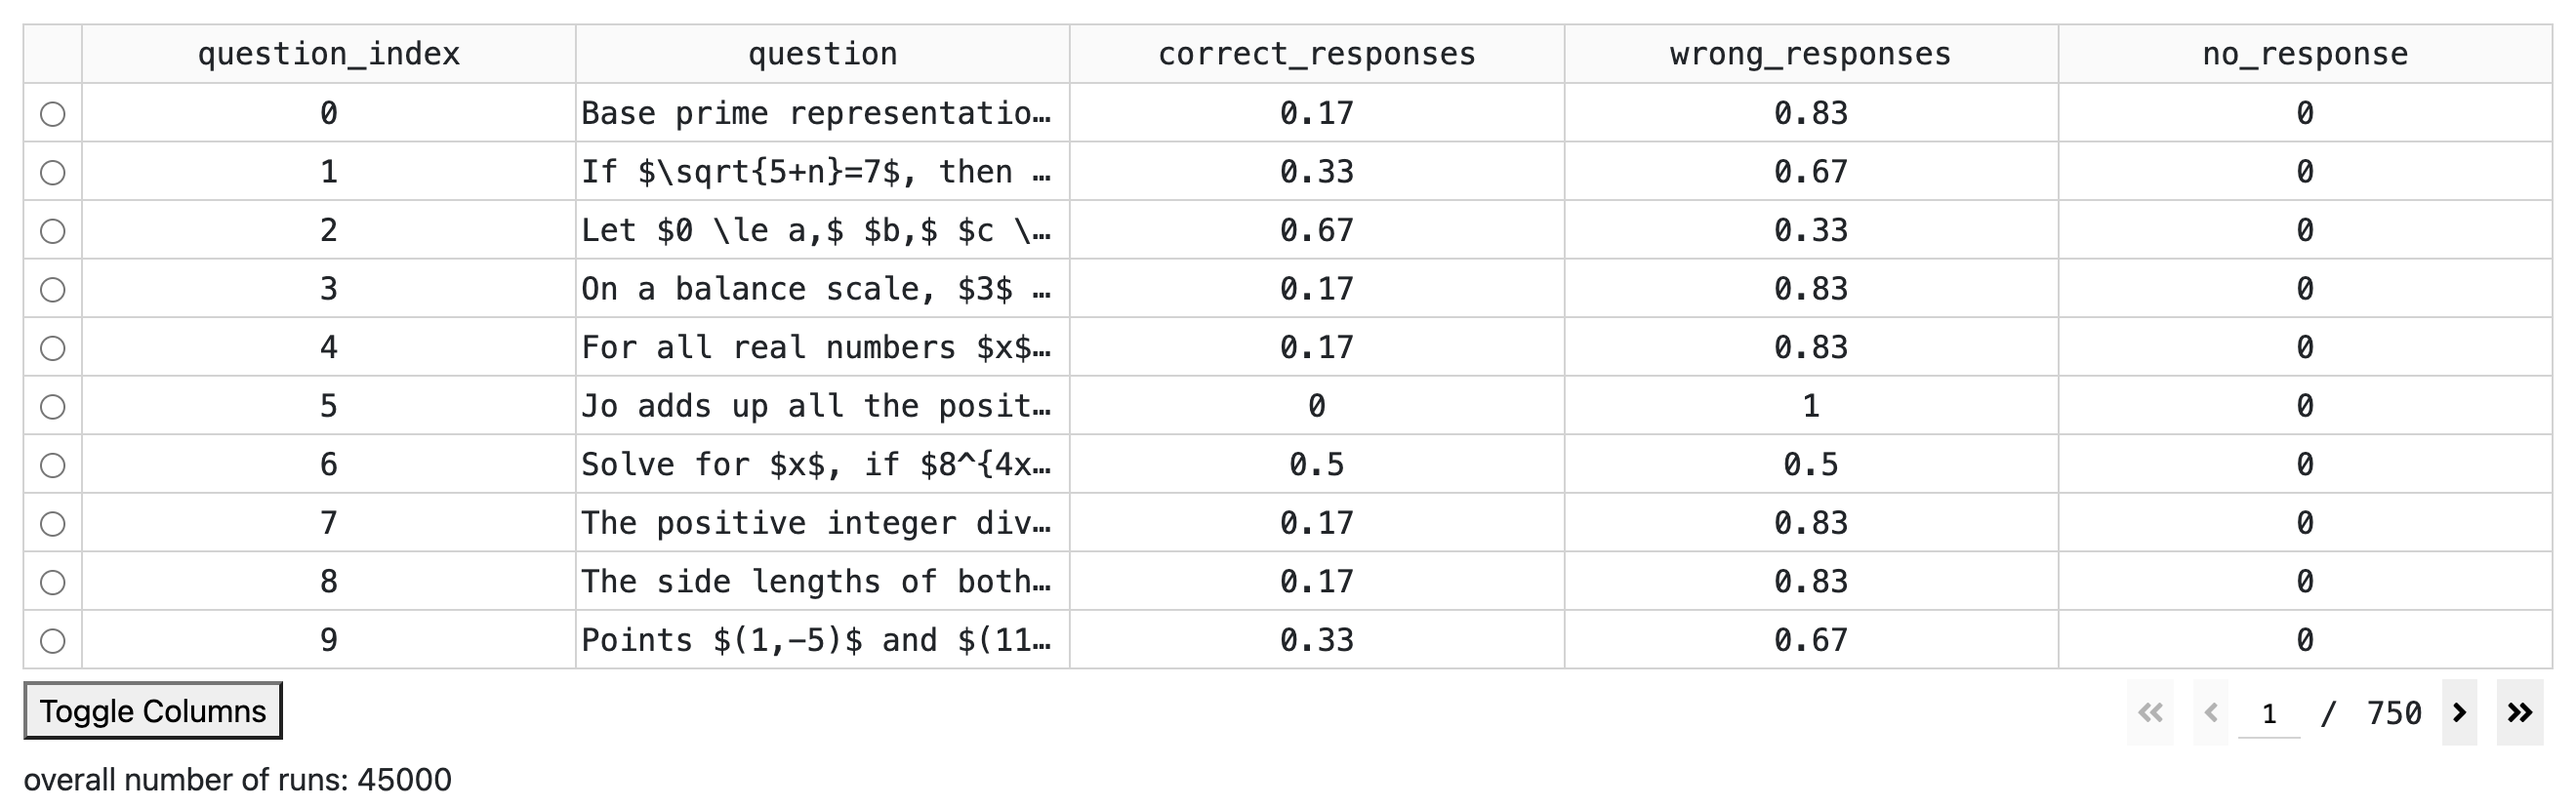
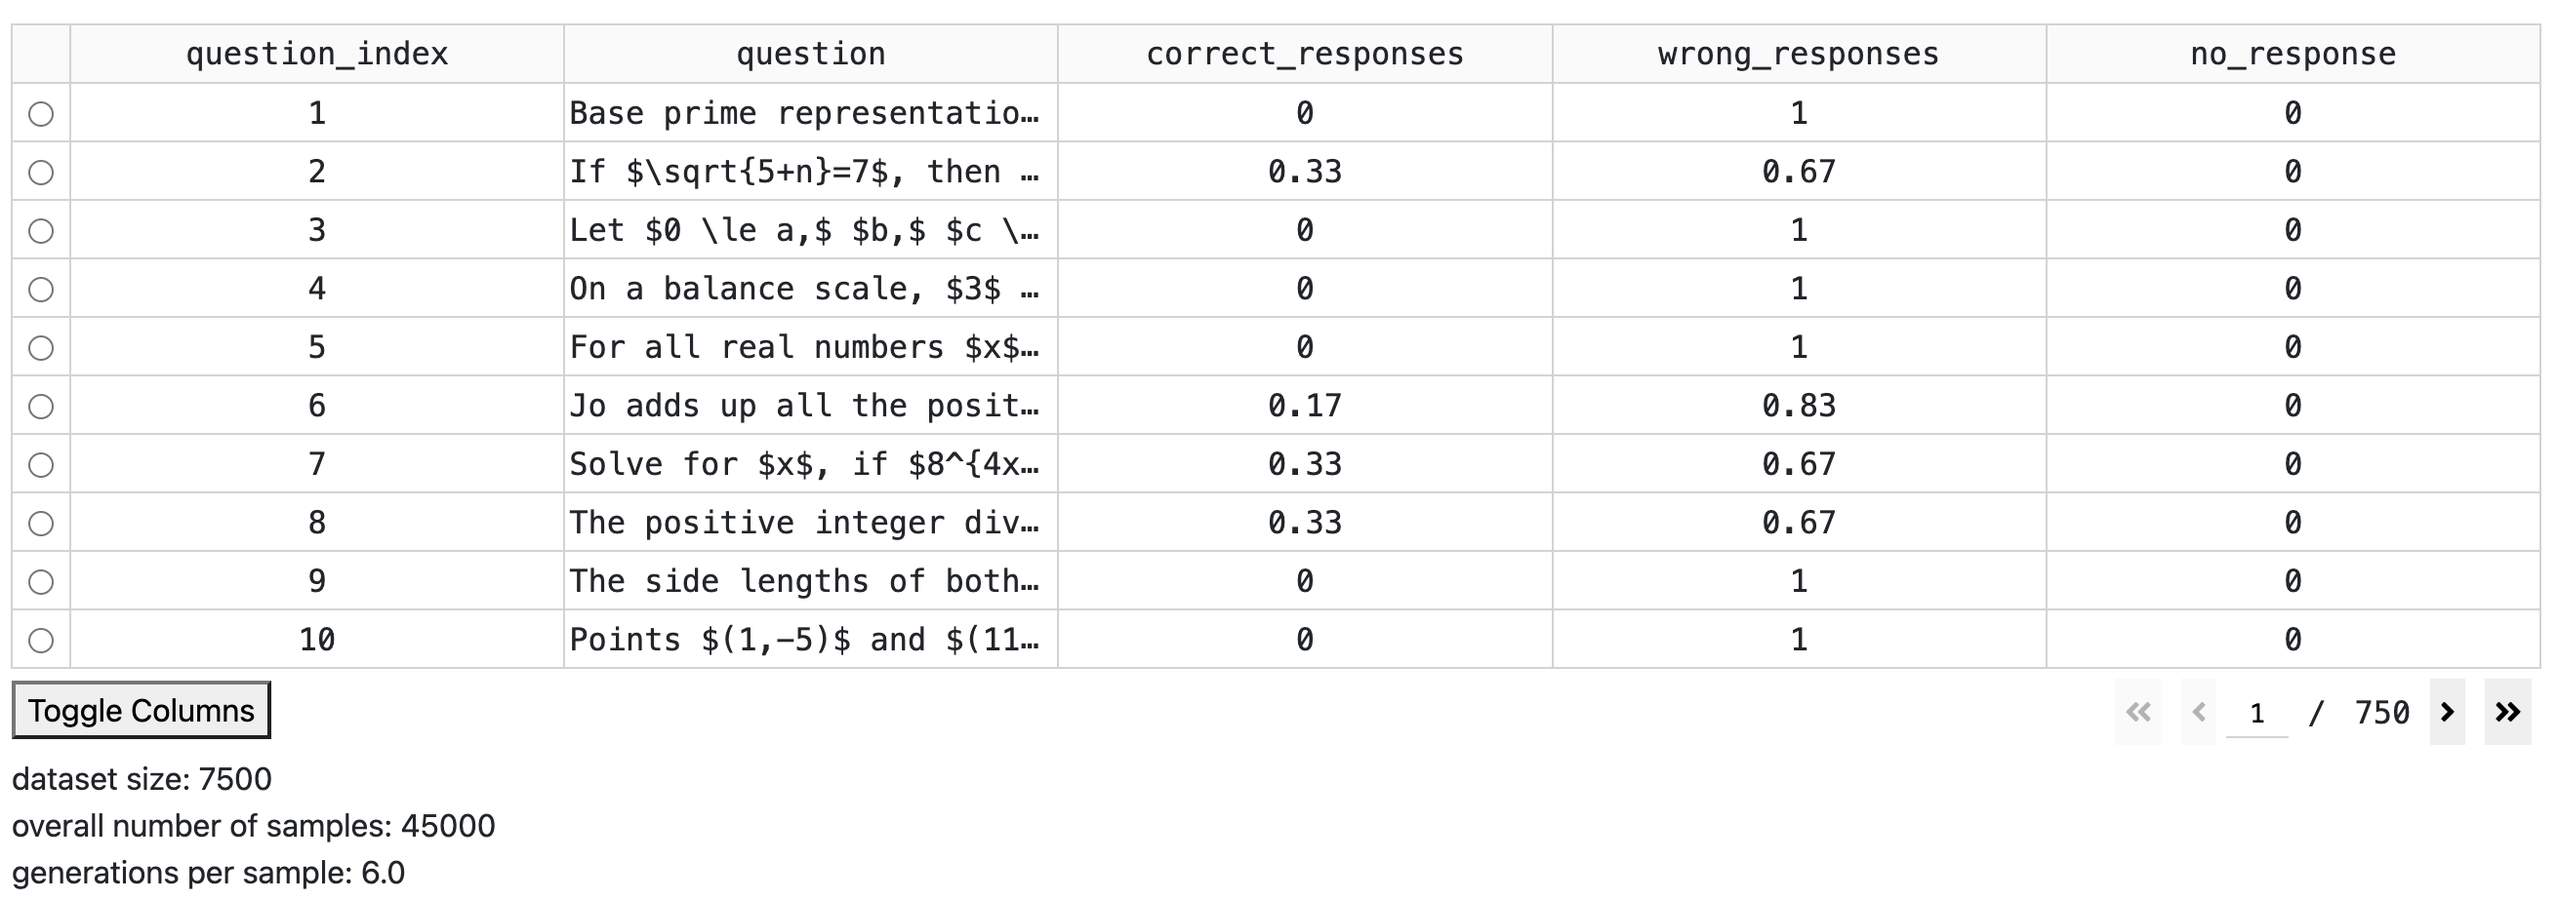
update readme

diff --git a/visualization/layouts/analyze_page_layouts.py b/visualization/layouts/analyze_page_layouts.py
@@ -17,7 +17,11 @@ from typing import Dict, List
 import dash_bootstrap_components as dbc
 from dash import dcc, html
 from layouts.base_layouts import get_selector_layout, get_switch_layout
-from layouts.table_layouts import get_change_label_layout, get_filter_layout, get_sorting_layout
+from layouts.table_layouts import (
+    get_change_label_layout,
+    get_filter_layout,
+    get_sorting_layout,
+)
 from settings.constants import CHOOSE_MODEL, DELETE, GENERAL_STATS
 from utils.common import get_available_models, get_custom_stats, get_general_custom_stats
 
@@ -59,9 +63,12 @@ def get_utils_layout(utils: Dict) -> dbc.AccordionItem:
             [
                 html.Pre(f"{name}: ", className="mr-2"),
                 html.Pre(
-                    (value if value == "" or str(value).strip() != "" else repr(value)[1:-1]),
+                    (
+                        value
+                        if value == "" or str(value).strip() != ""
+                        else repr(value)[1:-1]
+                    ),
                     className="mr-2",
-                    style={"overflow-x": "scroll"},
                 ),
             ],
             className="mb-3",
@@ -153,7 +160,9 @@ def get_compare_test_layout() -> html.Div:
             html.Pre(id="filtering_container"),
             html.Pre(id="sorting_container"),
             dcc.Loading(
-                children=dbc.Container(id="loading_container", style={'display': 'none'}, children=""),
+                children=dbc.Container(
+                    id="loading_container", style={'display': 'none'}, children=""
+                ),
                 type='circle',
                 style={'margin-top': '50px'},
             ),
@@ -207,7 +216,11 @@ def get_stats_text(general_stats: bool = False, delete: bool = False):
 
 
 def get_stats_input(modes: List[str] = []) -> List:
-    options = list(get_general_custom_stats().keys() if GENERAL_STATS in modes else get_custom_stats().keys())
+    options = list(
+        get_general_custom_stats().keys()
+        if GENERAL_STATS in modes
+        else get_custom_stats().keys()
+    )
     stats_input = (
         dbc.Textarea(id="stats_input")
         if not DELETE in modes
@@ -218,7 +231,9 @@ def get_stats_input(modes: List[str] = []) -> List:
         )
     )
     return [
-        html.Pre(get_stats_text(GENERAL_STATS in modes, DELETE in modes), id="stats_text"),
+        html.Pre(
+            get_stats_text(GENERAL_STATS in modes, DELETE in modes), id="stats_text"
+        ),
         stats_input,
     ]
 

diff --git a/visualization/settings/constants.py b/visualization/settings/constants.py
@@ -15,7 +15,7 @@
 ANSWER_FIELD = "expected_answer"
 EXTRA_FIELDS = ["page_index", "file_name"]
 CHAT_MODE = "chat_mode"
-CHOOSE_MODEL = "choose dataset"
+CHOOSE_MODEL = "choose generation"
 DATA_PAGE_SIZE = 10
 ERROR_MESSAGE_TEMPLATE = "When applying {} function\ngot errors\n{}"
 FEW_SHOTS_INPUT = "few_shots_input"

diff --git a/visualization/Readme.md b/visualization/Readme.md
@@ -32,25 +32,25 @@ This page enables the analysis of model answers based on different parameters. I
 - **Run whole dataset** mode lets you launch the generation with chosen parameters on the entire dataset. Results are saved in `visualization/results/output-greedy.jsonl` and `visualization/results/metrics-greedy.jsonl`. If the "use random seed range" flag is enabled, each answer will be sampled with multiple random seeds in the range from `start_random_seed` to `end_random_seed`. After generation is done, you can review the results on the "Analyze" page. The parameters used for dataset launch are also recorded in the `visualization/results/parameters.jsonl` file and displayed on the "Analyze" page.
 
 ## Analyze page
-To use the Analyze page, specify paths to the datasets you want to use (if not obtained through the "Inference" page). You can pass parameters via the command line with `++visualization_params.model_prediction.dataset1='/some_path/dataset1/output-greedy.jsonl'` or add them in an additional config file.
+To use the Analyze page, specify paths to the generations you want to use (if not obtained through the "Inference" page). You can pass parameters via the command line with `++visualization_params.model_prediction.generation1='/some_path/generation1/output-greedy.jsonl'` or add them in an additional config file.
 
 ```yaml
 visualization_params:
   model_prediction:
-    dataset1: /some_path/dataset1/output-greedy.jsonl
-    dataset2: /some_path/dataset2/output-rs*.jsonl
+    generation1: /some_path/generation1/output-greedy.jsonl
+    generation2: /some_path/generation2/output-rs*.jsonl
 ```
 
-The tool also supports multiple generations (e.g. 
- `dataset2` in the config above). All files satisfying the given pattern will be considered for analysis.
+The tool also supports comparison of multiple generations (e.g. 
+ `generation1` and `generation2` in the config above). All files satisfying the given pattern will be considered for analysis.
 
-On this page, you can sort, filter, and compare datasets. You can also add labels to the data and save your modified, filtered, and sorted dataset by specifying `save_dataset_path`.
+On this page, you can sort, filter, and compare generations. You can also add labels to the data and save your modified, filtered, and sorted dataset by specifying `save_dataset_path`.
 
 ### Filtering
 You can create custom functions to filter data. There are two modes: Filter Files mode and Filter Questions mode.
 
 #### Filter Files mode
-In this mode the functions will filter each sample from different files. It should take a dictionary containing keys representing dataset names and values as JSON data from your dataset.
+In this mode the functions will filter each sample from different files. It should take a dictionary containing keys representing generation names and values as JSON data from your dataset.
 
 Custom filtering functions should return a Boolean value. For instance:
 
@@ -59,40 +59,40 @@ def custom_filtering_function(error_message: str) -> bool:
    # Your code here
    return result
 
-custom_filtering_function(data['dataset1']['error_message']) # This line will be used for filtering
+custom_filtering_function(data['generation1']['error_message']) # This line will be used for filtering
 ```
 The last line in the custom filtering function will be used for data filtering; all preceding code within the function is executed but does not directly impact the filtering process.
 
-To apply filters for different datasets, separate expressions with '&&' symbols. 
+To apply filters for different generations, separate expressions with '&&' symbols. 
  ```python
- data['dataset1']['is_correct'] && not data['dataset2']['is_correct']
+ data['generation1']['is_correct'] && not data['generation2']['is_correct']
  ```
- Do not write expressions for different datasets without separators in this mode.
+ Do not write expressions for different generations without separators in this mode.
 
 #### Filter Questions mode
-In this mode the function will filter each question. Files will not be filtered. It should take a dictionary containing keys representing dataset names and a list of values as JSON data from your dataset from each file.
+In this mode the function will filter each question. Files will not be filtered. It should take a dictionary containing keys representing generation names and a list of values as JSON data from your dataset from each file.
 
 In this mode you should not use the && separator. For instance, an example from the previous mode can be written like this:
  ```python
  data['generation1'][0]['is_correct'] and not data['generation2'][0]['is_correct']
- # Filter questions where the first file of the first dataset contains a correct solution and the first file from the second dataset contains a wrong solution
+ # Filter questions where the first file of the first generation contains a correct solution and the first file from the second generation contains a wrong solution
  ```
  or like this:
   ```python
- data['dataset1'][0]['correct_responses'] == 1 and data['dataset2'][0]['correct_responses'] == 0
- # Custom Statistics are dublicated in all JSONs. So here, 'correct_responses' value will be the same for all file for a specific dataset and question 
+ data['generation1'][0]['correct_responses'] == 1 and data['generation2'][0]['correct_responses'] == 0
+ # Custom Statistics are dublicated in all JSONs. So here, 'correct_responses' value will be the same for all file for a specific generation and question 
  ```
- In this mode you can also compare fields of different datasets
+ In this mode you can also compare fields of different generations
    ```python
- data['dataset1'][0]['is_correct'] != data['dataset2'][0]['is_correct']
+ data['generation1'][0]['is_correct'] != data['generation2'][0]['is_correct']
  ```
  These examples can not be used in the Filter Files mode
 
 ### Sorting
 Sorting functions operate similarly to filtering functions, with a few distinctions:
 
-1. Sorting functions operate on individual data entries rather than on dictionaries containing dataset name keys.
-2. Sorting functions cannot be applied across different datasets simultaneously.
+1. Sorting functions operate on individual data entries rather than on dictionaries containing generation name keys.
+2. Sorting functions cannot be applied across different generations simultaneously.
 
 Here is an example of a correct sorting function:
 
@@ -104,7 +104,7 @@ custom_sorting_function(data['generated_solution'])
 ```
 
 ### Statistics
-There are two types of statistics: "Custom Statistics" and "General Custom Statistics". Custom statistics apply to different runs of a single question. There are some default custom statistics: "correct_responses", "wrong_responses", and "no_responses". General Custom Statistics apply to each sample across all questions. Default general custom statistic - "overall number of runs"
+There are two types of statistics: "Custom Statistics" and "General Custom Statistics". Custom statistics apply to different samples of a single question. There are some default custom statistics: "correct_responses", "wrong_responses", and "no_responses". General Custom Statistics apply to each sample across all questions. Default general custom statistics - "dataset size", "overall number of samples" and "generations per sample"
 
 ![stats](/visualization/images/stats.png)
 

diff --git a/README.md b/README.md
@@ -16,8 +16,8 @@ Our pipeline consists of 3 steps and can be directly applied to any LLM that is 
 2. <b>[Generate synthetic data](/docs/synthetic-data-generation.md)</b>
    - Write a couple of examples of solutions that you want the student LLM to learn.
      E.g. [teach it to use code](/nemo_skills/inference/prompt/few_shot_examples/examples_gsm8k.py) to solve math problems.
-   - Run a large-scale generation of diverse solutions on the training datasets showing your examples in the prompt to the teacher model. This can be done through our [visualization tool](/visualization/Readme.md)
-   - Filter the generated solutions based on correctness and quality. This is also can be done through our [visualization tool](/visualization/Readme.md)
+   - Run a large-scale generation of diverse solutions on the training datasets showing your examples in the prompt to the teacher model.
+   - Filter the generated solutions based on correctness and quality.
 3. <b>[Finetune the student model on the generated dataset](/docs/finetuning.md)</b>
 
 We release a series of [OpenMath models](https://huggingface.co/collections/nvidia/openmath-65c5619de2ba059be0775014)
@@ -115,6 +115,10 @@ If you want to improve your own models or to learn more about our pipeline, read
 - [Finetuning models](/docs/finetuning.md)
 - [Evaluating models](/docs/evaluation.md)
 
+We also provide a convinient [tool](/visualization/Readme.md) for visualizing inference and data analysis
+Overview |  Inference Page | Analyze Page
+:-------------------------:|:-------------------------:|:-------------------------:
+[![Demo of the tool](/visualization/images/demo.png)](https://www.youtube.com/watch?v=EmBFEl7ydqE)   |  [![Demo of the inference page](/visualization/images/inference_page.png)](https://www.youtube.com/watch?v=6utSkPCdNks) | [![Demo of the analyze page](/visualization/images/analyze_page.png)](https://www.youtube.com/watch?v=cnPyDlDmQXg)
 
 ## Supported models and datasets
 
